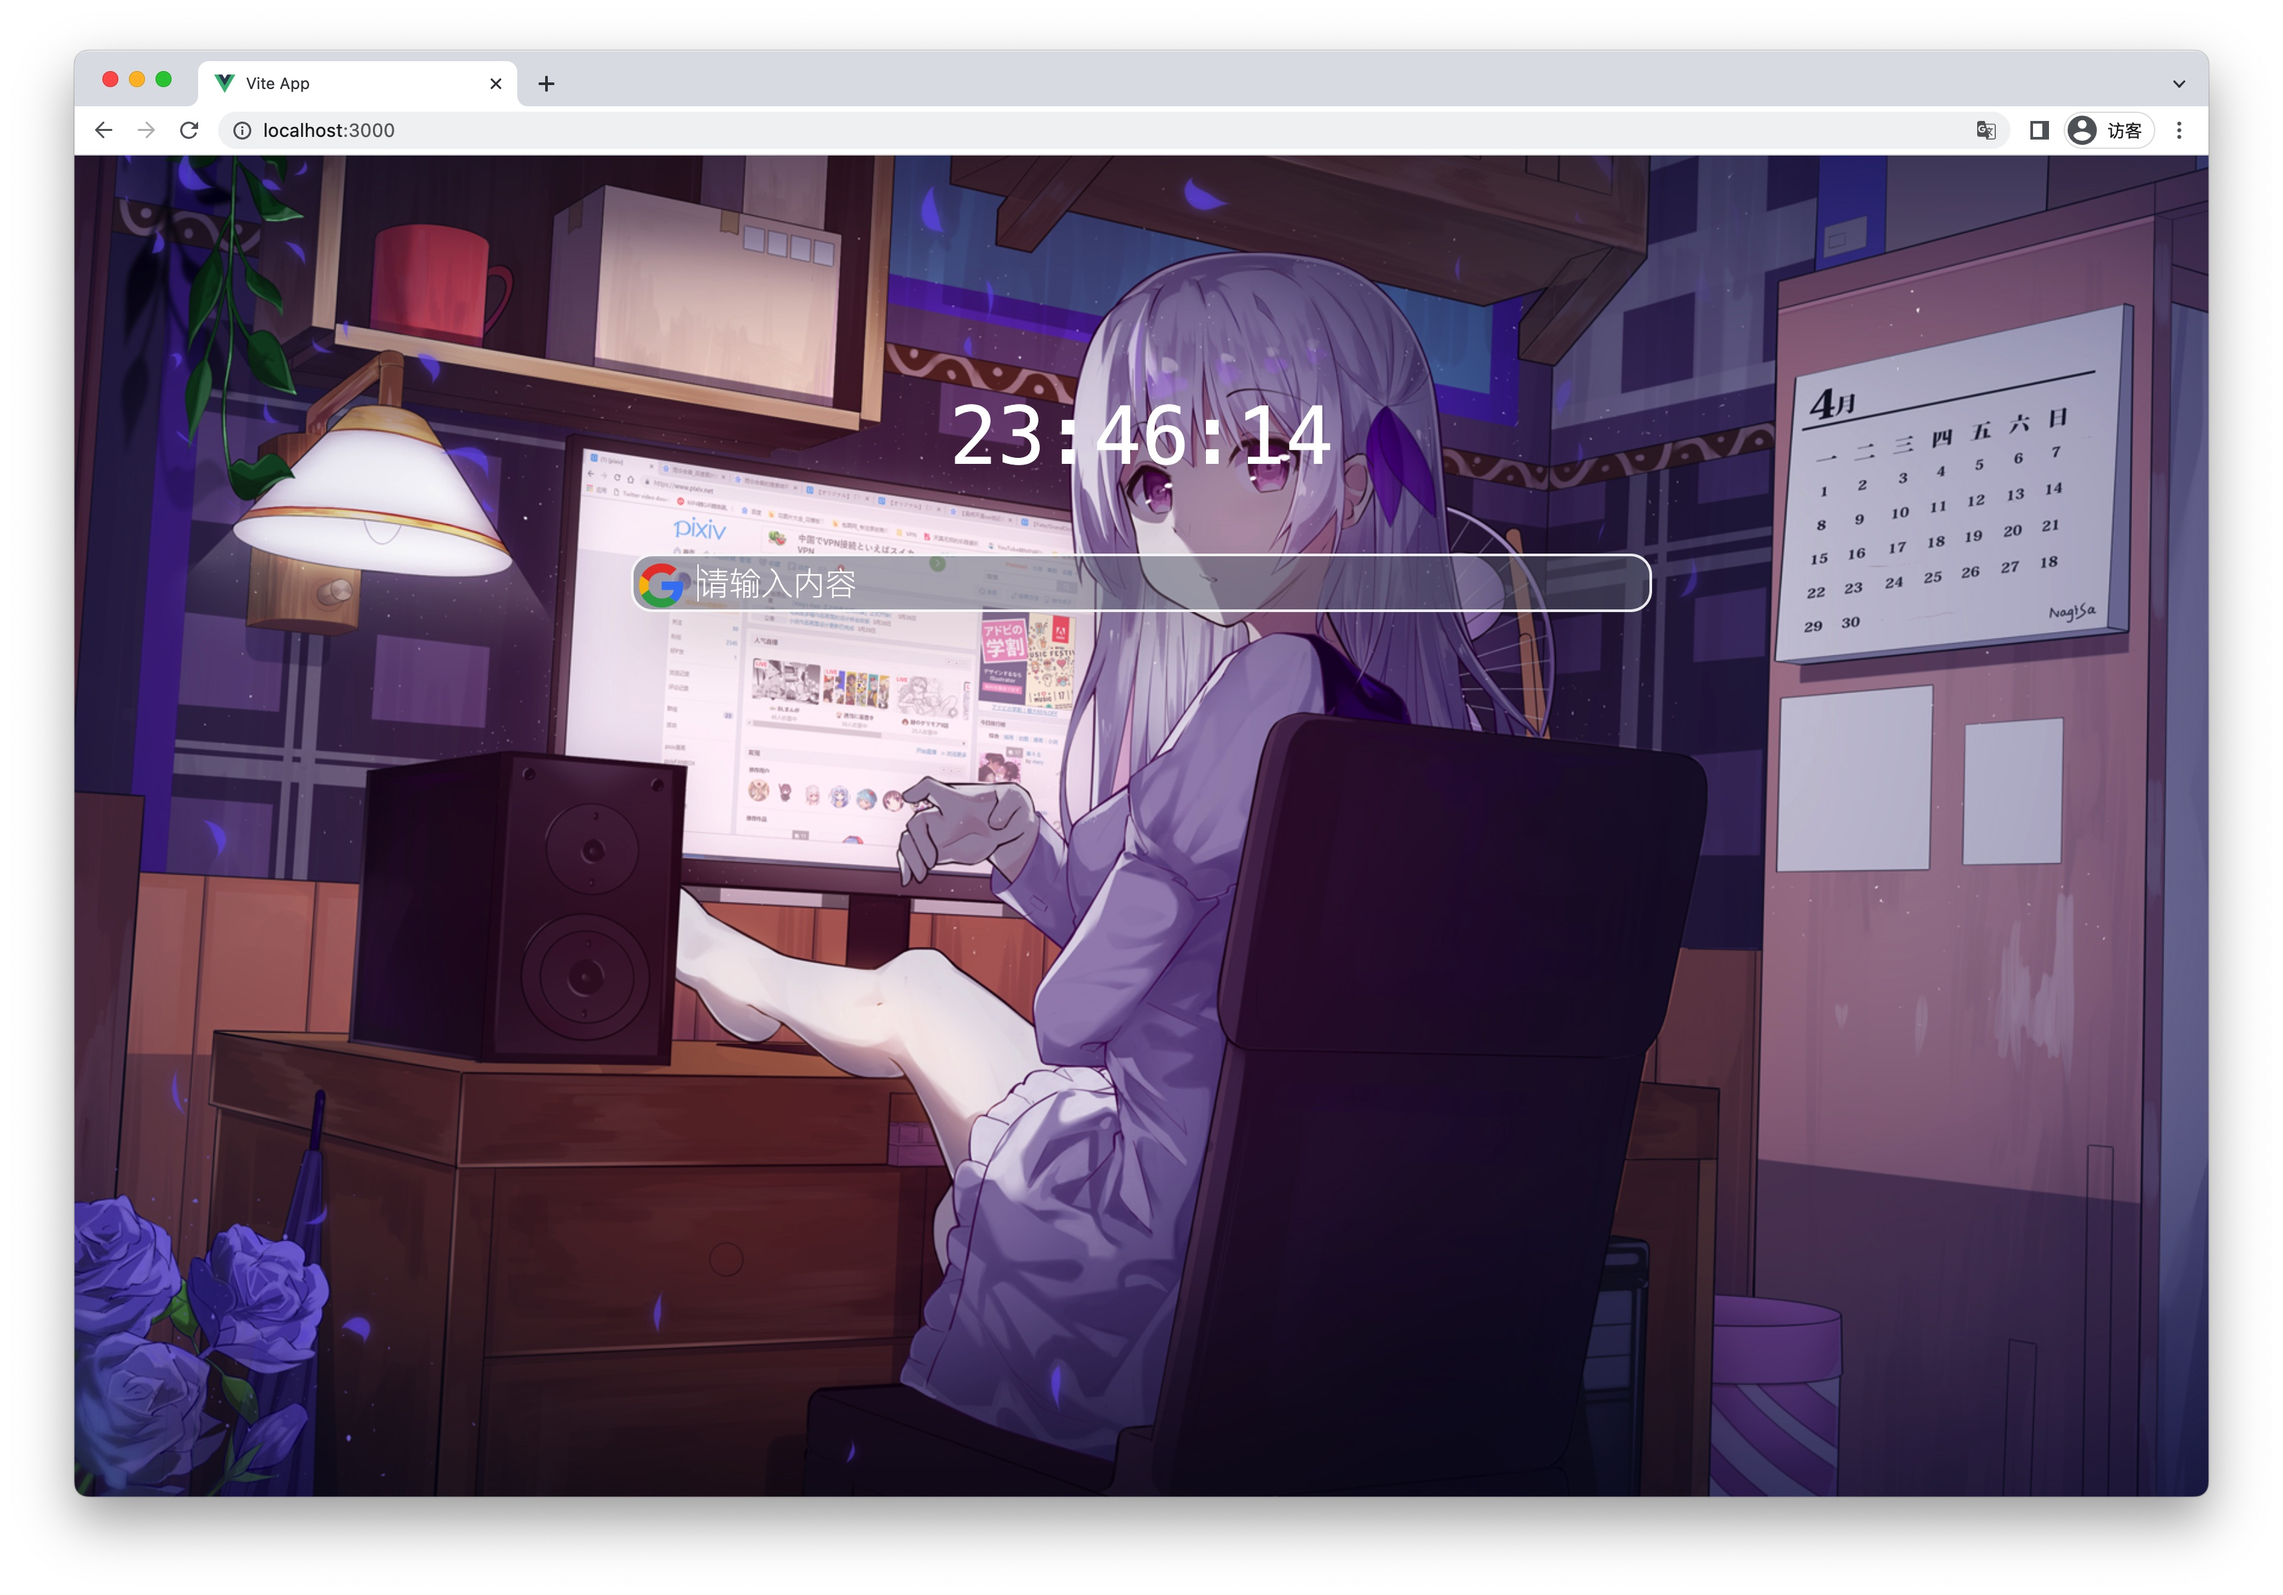
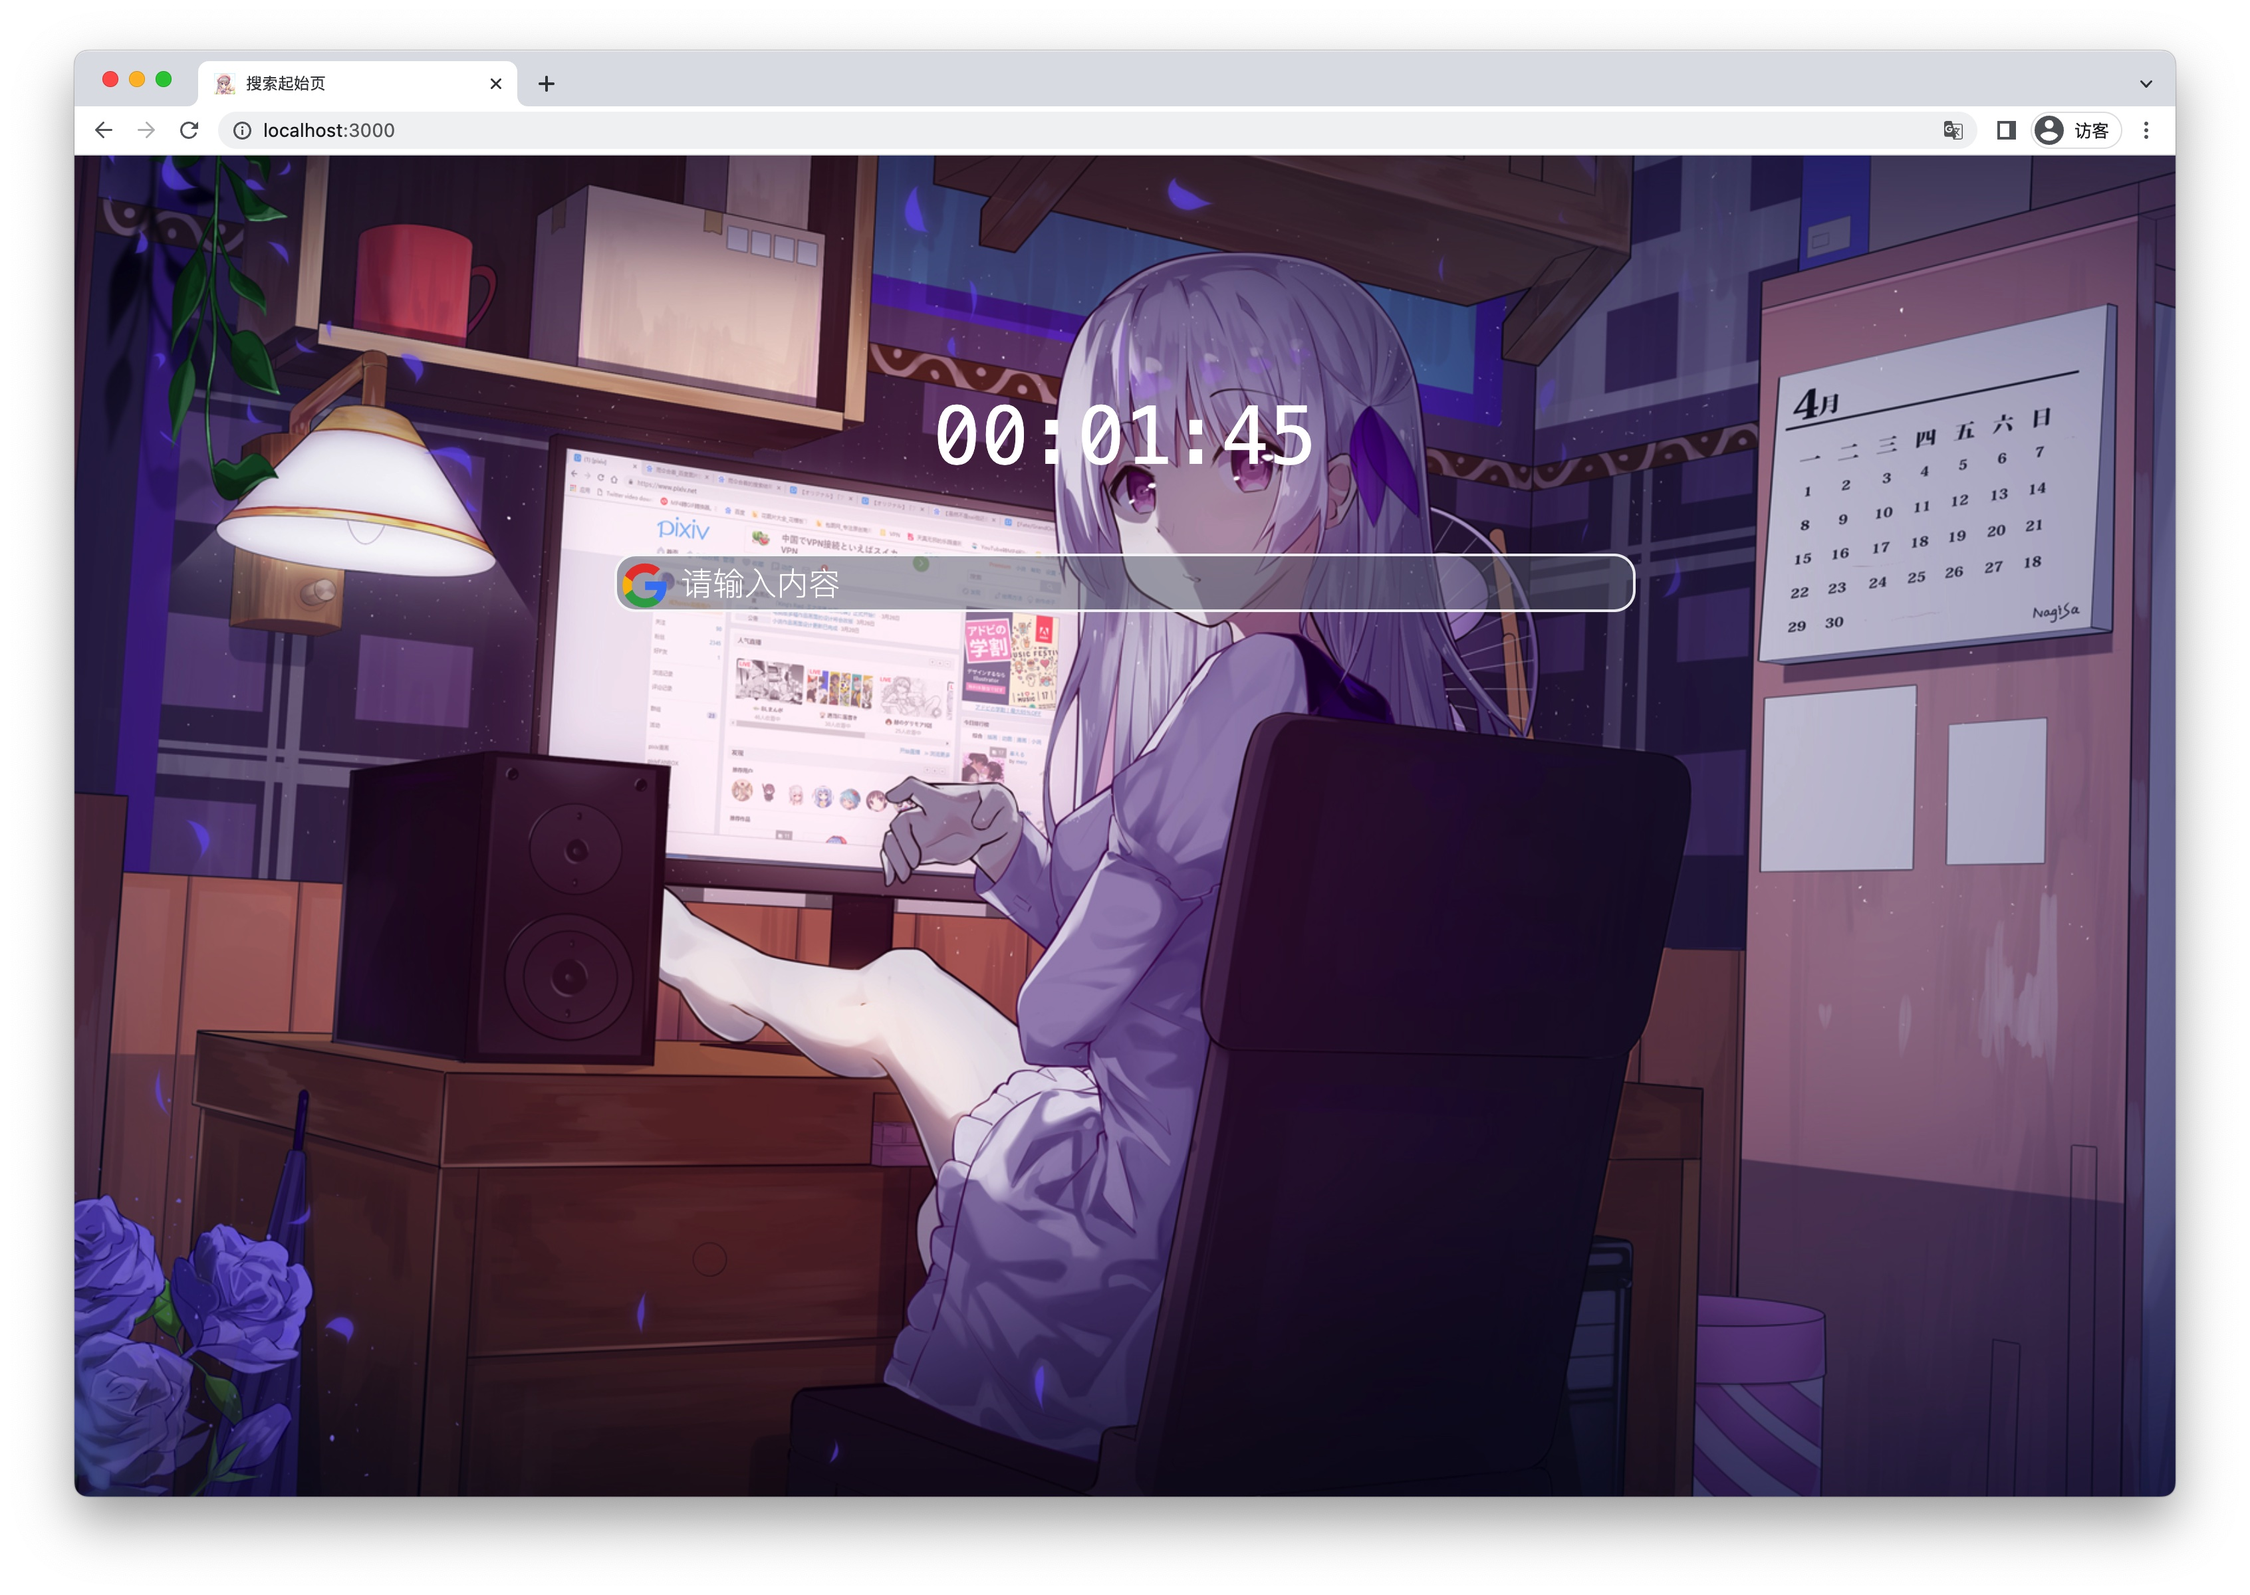
fix: readme

diff --git a/index.html b/index.html
@@ -2,9 +2,9 @@
 <html lang="en">
   <head>
     <meta charset="UTF-8" />
-    <link rel="icon" href="/favicon.ico" />
+    <link rel="icon" href="icon.ico" />
     <meta name="viewport" content="width=device-width, initial-scale=1.0" />
-    <title>Vite App</title>
+    <title>搜索起始页</title>
   </head>
   <body>
     <div id="app"></div>

diff --git a/README.md b/README.md
@@ -1,4 +1,4 @@
-## 一个简单的搜索启始页
+## 一个简单的搜索起始页
 
 使用了以下技术
 
